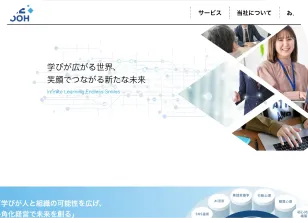
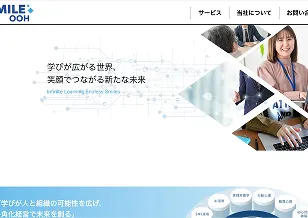
実績紹介のカードの中身の高さを合わすようにした。

diff --git a/assets/scss/pages/_home.scss b/assets/scss/pages/_home.scss
@@ -108,54 +108,61 @@ body {
       margin-bottom: 60px;
       .works_wrapper {
         display: grid;
-        grid-template-columns: repeat(4, 1fr);
+        grid-template-columns: repeat(3, 1fr);
         align-items: stretch; // カードの高さを揃える
         gap: 30px;
         margin-bottom: 100px;
-        @include mq(md) {
+        @include mq(lg) {
           grid-template-columns: 1fr 1fr;
-          gap: 20px;
+          gap: 25px;
         }
+        @include mq(sm) {
+          grid-template-columns: 1fr;
+        }
+        
         .work_card {
-          background-color: #FEF1B8;
-          border-radius: 50px;
           display: flex;
           flex-direction: column;
-          
+          background-color: #FEF1B8;
+          border-radius: 50px;          
           .thumnail {
-            width: calc(100% - 4px);
-            aspect-ratio: 3 / 2; // PCは少し縦長に
+            width: calc(100% - 10px);
+            aspect-ratio: 3 / 2; // 少し縦長に
             object-fit: cover;
             object-position: center top; // 上側を基準にトリミング
-            margin: 2px auto 15px;
+            margin: 5px auto 15px;
             display: block;
-            border-width: 50px 0 0 50px;
-            @include mq(md) {
-              aspect-ratio: 16 / 9; //スマホは横長に
-            }
-          }
-          .skill_wrapper {
-            flex: 1; // 余白をここで吸収する
-            margin: 0 auto 25px;
-            width: 90%;
+            border-radius: 50px 50px 0 0;
+          } 
+          .skill_wrapper{
+            display: flex;
+            flex-direction: column;
+            flex: 1;
+
             .category {
               display: inline-block;
               padding: 10px 30px;
               background-color: #fff;
               border-radius: 20px;
-              margin-bottom: 15px;
+              margin: 0 5% 15px;
               font-family: "Zen Maru Gothic", serif;
+              align-self: start;
             }
             .website_name {
               font-family: "Zen Maru Gothic", serif;
               font-size: 20px;
               font-weight: 700;
-              margin-bottom: 15px;
+              margin: 0 5% 15px;
+              @include mq(lg) {
+                font-size: 18px;
+              }
             }
             .skills {
               font-family: "Zen Maru Gothic", serif;
+              margin: 0 5% 25px;
+              flex: 1;
             }
-          }
+          }           
           .botton_wrapper {
             width: 90%;
             margin: 0 auto;
@@ -187,14 +194,32 @@ body {
             }
           }
         }
+        .sp_display {
+          display: none;
+          @include mq(lg) {
+            display: block;
+          }
+          @include mq(sm) {
+            display: none;
+          }
+        }
       }
       .go_to_detail_works {
+        display: flex;
+        justify-content: space-between;
+        align-items: center;
+        background-color: #f4d85d;
+        border-radius: 20px;
+        padding: 25px;
+        width: 300px;
+        margin: 0 auto;
         
         .button_text {
-          
+          font-weight: 700;
         }
         .arrow {
-          
+          width: 20px;
+          height: 20px;
         }
       }
     }

diff --git a/assets/js/main.js b/assets/js/main.js
@@ -289,3 +289,74 @@ window.addEventListener('load', () => {
     }
 });
 
+/*******************************************
+ *  ホームページ work_cardのskillsの高さを揃える
+ *******************************************/
+// work_cardの website_name と skills の高さを揃える関数
+function equalizeSkillsHeight() {
+  const wrapper = document.querySelector('.works_wrapper');
+
+  // .works_wrapper内の全.work_cardを取得し、display:noneのカードを除外
+  // offsetParent が null = 非表示の要素
+  const cards = Array.from(wrapper.querySelectorAll('.work_card'))
+    .filter(card => card.offsetParent !== null);
+  
+  // カードが1枚もなければ何もしない
+  if (cards.length === 0) return;
+
+  // 一度全カードの website_name と skills の minHeight をリセット
+  // リサイズ時に古い値が残らないようにするため
+  cards.forEach(card => {
+    ['website_name', 'skills'].forEach(cls => {
+      const el = card.querySelector('.' + cls);
+      if (el) el.style.minHeight = '';
+    });
+  });
+
+  // カラム数を計算（wrapper幅 ÷ カード1枚の幅 を四捨五入）
+  // 例：wrapperが1200px、カードが400px → 3カラム
+  const columnCount = Math.round(wrapper.offsetWidth / cards[0].offsetWidth);
+
+  // カラム数ずつカードをグループ化して行ごとに処理
+  for (let i = 0; i < cards.length; i += columnCount) {
+    
+    // 同じ行のカードを取り出す（例：3カラムなら0〜2、3〜5...）
+    const row = cards.slice(i, i + columnCount);
+
+    // 同じ行の website_name の中で一番高いものを取得
+    const maxNameHeight = Math.max(...row.map(card => {
+      const el = card.querySelector('.website_name');
+      return el ? el.offsetHeight : 0;
+    }));
+    // 同じ行の全カードの website_name に最大高さを設定
+    row.forEach(card => {
+      const el = card.querySelector('.website_name');
+      if (el) el.style.minHeight = maxNameHeight + 'px';
+    });
+
+    // 同じ行の skills の中で一番高いものを取得
+    // ※website_nameを揃えた後に計算する（高さが変わるため）
+    const maxSkillsHeight = Math.max(...row.map(card => {
+      const el = card.querySelector('.skills');
+      return el ? el.offsetHeight : 0;
+    }));
+    // 同じ行の全カードの skills に最大高さを設定
+    row.forEach(card => {
+      const el = card.querySelector('.skills');
+      if (el) el.style.minHeight = maxSkillsHeight + 'px';
+    });
+  }
+}
+
+// ページ読み込み時、ローディングアニメーション完了後（3600ms）に実行
+// ローディング中はカードが非表示でoffsetHeightが0になるため遅らせる
+window.addEventListener('load', () => {
+  if (!document.querySelector('.works_wrapper')) return;
+  setTimeout(equalizeSkillsHeight, 3600);
+});
+
+// 画面リサイズ時に再実行（カラム数が変わるため）
+window.addEventListener('resize',() => {
+  if (!document.querySelector('.works_wrapper')) return;
+  equalizeSkillsHeight();
+});

diff --git a/assets/css/style.css b/assets/css/style.css
@@ -97,58 +97,66 @@ body {
 }
 #home .works .works_wrapper {
   display: grid;
-  grid-template-columns: repeat(4, 1fr);
+  grid-template-columns: repeat(3, 1fr);
   align-items: stretch;
   gap: 30px;
   margin-bottom: 100px;
 }
-@media screen and (max-width: 768px) {
+@media screen and (max-width: 960px) {
   #home .works .works_wrapper {
     grid-template-columns: 1fr 1fr;
-    gap: 20px;
+    gap: 25px;
+  }
+}
+@media screen and (max-width: 480px) {
+  #home .works .works_wrapper {
+    grid-template-columns: 1fr;
   }
 }
 #home .works .works_wrapper .work_card {
-  background-color: #FEF1B8;
-  border-radius: 50px;
   display: flex;
   flex-direction: column;
+  background-color: #FEF1B8;
+  border-radius: 50px;
 }
 #home .works .works_wrapper .work_card .thumnail {
-  width: calc(100% - 4px);
+  width: calc(100% - 10px);
   aspect-ratio: 3/2;
   object-fit: cover;
   object-position: center top;
-  margin: 2px auto 15px;
+  margin: 5px auto 15px;
   display: block;
-  border-width: 50px 0 0 50px;
-}
-@media screen and (max-width: 768px) {
-  #home .works .works_wrapper .work_card .thumnail {
-    aspect-ratio: 16/9;
-  }
+  border-radius: 50px 50px 0 0;
 }
 #home .works .works_wrapper .work_card .skill_wrapper {
+  display: flex;
+  flex-direction: column;
   flex: 1;
-  margin: 0 auto 25px;
-  width: 90%;
 }
 #home .works .works_wrapper .work_card .skill_wrapper .category {
   display: inline-block;
   padding: 10px 30px;
   background-color: #fff;
   border-radius: 20px;
-  margin-bottom: 15px;
+  margin: 0 5% 15px;
   font-family: "Zen Maru Gothic", serif;
+  align-self: start;
 }
 #home .works .works_wrapper .work_card .skill_wrapper .website_name {
   font-family: "Zen Maru Gothic", serif;
   font-size: 20px;
   font-weight: 700;
-  margin-bottom: 15px;
+  margin: 0 5% 15px;
+}
+@media screen and (max-width: 960px) {
+  #home .works .works_wrapper .work_card .skill_wrapper .website_name {
+    font-size: 18px;
+  }
 }
 #home .works .works_wrapper .work_card .skill_wrapper .skills {
   font-family: "Zen Maru Gothic", serif;
+  margin: 0 5% 25px;
+  flex: 1;
 }
 #home .works .works_wrapper .work_card .botton_wrapper {
   width: 90%;
@@ -178,6 +186,36 @@ body {
 }
 #home .works .works_wrapper .work_card .botton_wrapper .go_to_site .angle {
   transform: rotate(-45deg);
+}
+#home .works .works_wrapper .sp_display {
+  display: none;
+}
+@media screen and (max-width: 960px) {
+  #home .works .works_wrapper .sp_display {
+    display: block;
+  }
+}
+@media screen and (max-width: 480px) {
+  #home .works .works_wrapper .sp_display {
+    display: none;
+  }
+}
+#home .works .go_to_detail_works {
+  display: flex;
+  justify-content: space-between;
+  align-items: center;
+  background-color: #f4d85d;
+  border-radius: 20px;
+  padding: 25px;
+  width: 300px;
+  margin: 0 auto;
+}
+#home .works .go_to_detail_works .button_text {
+  font-weight: 700;
+}
+#home .works .go_to_detail_works .arrow {
+  width: 20px;
+  height: 20px;
 }
 #home .about_me .image_flex {
   display: flex;

diff --git a/index.php b/index.php
@@ -34,7 +34,7 @@
               <div class="skill_wrapper">
                 <h4 class="category">WordPress</h4>
                 <h5 class="website_name">わたしたちのSLE</h5>
-                <p class="skills">HTML / CSS / JavaScript / jQuery / Chart.js / WordPress / PHP</p>
+                <p class="skills">Webデザイン / HTML / CSS / JavaScript / jQuery / Chart.js / WordPress / PHP</p>
               </div>
               <div class="botton_wrapper">
                 <hr class="word_border">
@@ -70,14 +70,14 @@
                 </a>
               </div>
             </article>
-            
-            <article class="work_card">
+            <!-- デザインスクール大津様 -->
+            <article class="work_card sp_display">
               <img class="thumnail" src="<?php echo get_template_directory_uri(); ?>/assets/images/thumnail-design-school.webp" alt="デザインスクール大津様のサムネイル">
               <div class="skill_wrapper">
                 <h4 class="category">LP</h4>
                 <h5 class="website_name">デザインスクール大津様</h5>
                 <p class="skills">HTML / CSS / JavaScript /GSAP</p>
-              </div>
+              </div>  
               <div class="botton_wrapper">
                 <hr class="word_border">
                 <a href="https://onof-design.com/" target="_blank" class="go_to_site">
@@ -91,14 +91,13 @@
                 </a>
               </div>
             </article>
-            
+            <!-- イラストレーションスクール様 -->
             <article class="work_card">
               <img class="thumnail" src="<?php echo get_template_directory_uri(); ?>/assets/images/thumnail-illustration-school.webp" alt="イラストレーションスクール様のサムネイル">
               <div class="skill_wrapper">
                 <h4 class="category">WordPress</h4>
                 <h5 class="website_name">イラストレーションスクール様</h5>
-                <p class="skills">HTML / CSS / JavaScript / GSAP<br>
-                  チーム実務
+                <p class="skills">Webデザイン / HTML / CSS / JavaScript / GSAP<br>チーム実務
                 </p>
               </div>
               <div class="botton_wrapper">
